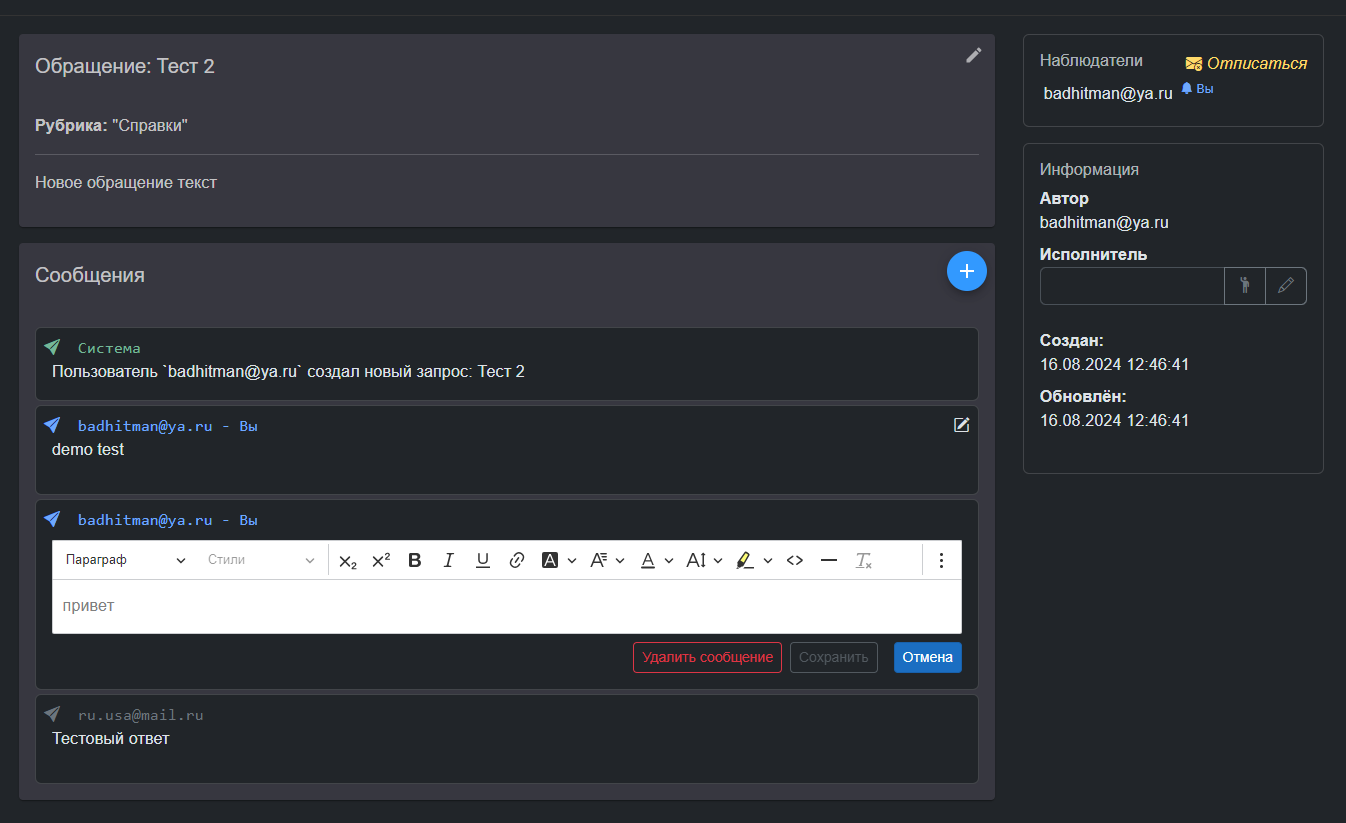
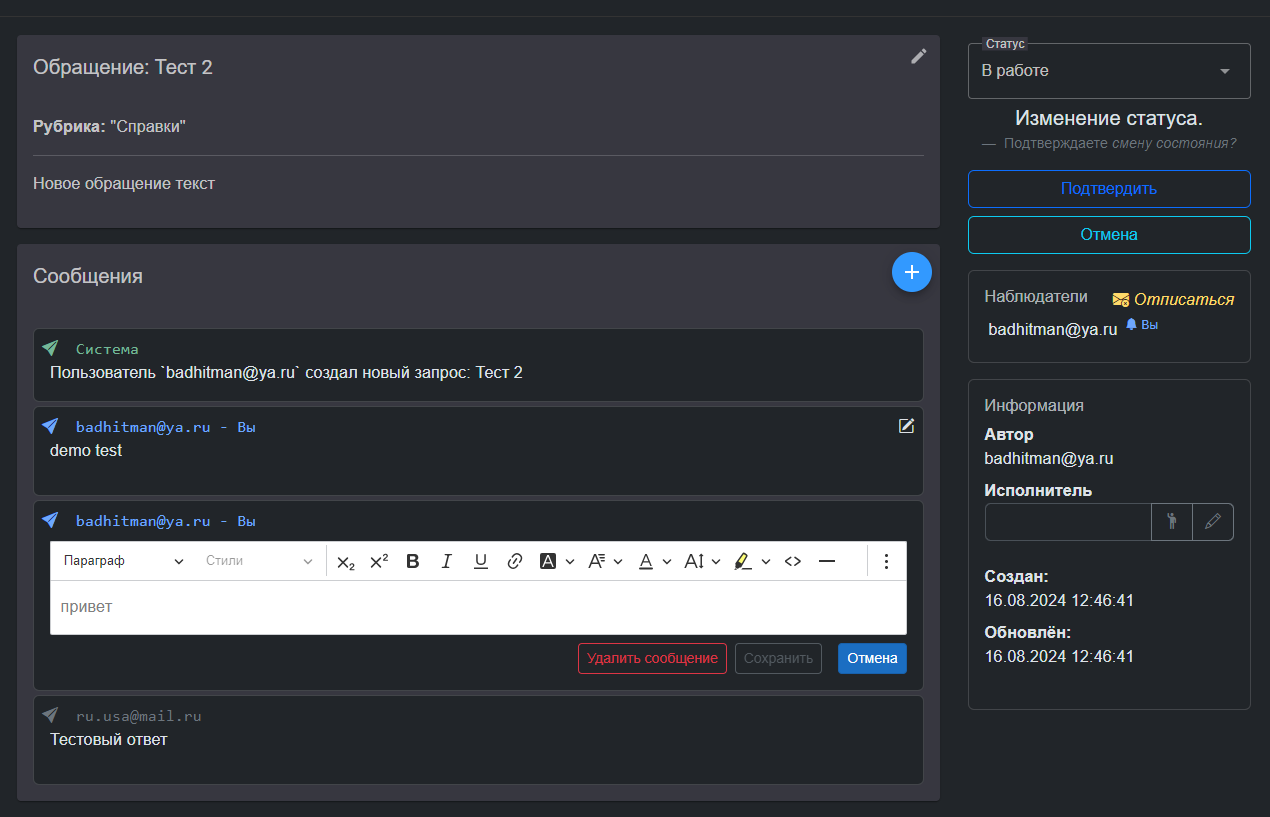
~

diff --git a/BlazorServerLib/Components/Helpdesk/issue/StatusIssueComponent.razor.cs b/BlazorServerLib/Components/Helpdesk/issue/StatusIssueComponent.razor.cs
@@ -1,0 +1,78 @@
+////////////////////////////////////////////////
+// © https://github.com/badhitman - @FakeGov 
+////////////////////////////////////////////////
+
+using SharedLib;
+
+namespace BlazorWebLib.Components.Helpdesk.issue;
+
+/// <summary>
+/// Участники диалога
+/// </summary>
+public partial class StatusIssueComponent : IssueWrapBaseModel
+{
+
+    HelpdeskIssueStepsEnum issueStep { get; set; }
+
+    List<HelpdeskIssueStepsEnum> Steps()
+    {
+        List<HelpdeskIssueStepsEnum> res = [];
+
+        if (CurrentUser.IsAdmin || CurrentUser.UserId == Issue.ExecutorIdentityUserId || CurrentUser.Roles?.Contains(GlobalStaticConstants.Roles.HelpDeskTelegramBotManager) == true)
+            res.AddRange(Enum.GetValues<HelpdeskIssueStepsEnum>());
+        else
+        {
+            switch (Issue.StepIssue)
+            {
+                case HelpdeskIssueStepsEnum.Created or HelpdeskIssueStepsEnum.Reopen or HelpdeskIssueStepsEnum.Pause or HelpdeskIssueStepsEnum.Progress or HelpdeskIssueStepsEnum.Check:
+                    res.AddRange([Issue.StepIssue, HelpdeskIssueStepsEnum.Done, HelpdeskIssueStepsEnum.Canceled]);
+                    break;
+                case HelpdeskIssueStepsEnum.Done:
+                    res.AddRange([HelpdeskIssueStepsEnum.Done, HelpdeskIssueStepsEnum.Reopen]);
+                    break;
+                case HelpdeskIssueStepsEnum.Canceled:
+                    res.AddRange([HelpdeskIssueStepsEnum.Canceled, HelpdeskIssueStepsEnum.Reopen]);
+                    break;
+            }
+        }
+
+        return res;
+    }
+
+    string ChangeAbout()
+    {
+        switch (Issue.StepIssue)
+        {
+            case HelpdeskIssueStepsEnum.Created:
+
+                break;
+            case HelpdeskIssueStepsEnum.Reopen:
+
+                break;
+            case HelpdeskIssueStepsEnum.Pause:
+
+                break;
+            case HelpdeskIssueStepsEnum.Progress:
+
+                break;
+            case HelpdeskIssueStepsEnum.Check:
+
+                break;
+            case HelpdeskIssueStepsEnum.Done:
+
+                break;
+            case HelpdeskIssueStepsEnum.Canceled:
+
+                break;
+        }
+
+        return "";
+    }
+
+    /// <inheritdoc/>
+    protected override void OnInitialized()
+    {
+        issueStep = Issue.StepIssue;
+        base.OnInitialized();
+    }
+}

diff --git a/SharedLib/Enum/HelpdeskIssueStepsEnum.cs b/SharedLib/Enum/HelpdeskIssueStepsEnum.cs
@@ -24,20 +24,32 @@ public enum HelpdeskIssueStepsEnum
     Reopen = 20,
 
     /// <summary>
+    /// Возвращён в работу
+    /// </summary>
+    [Description("Пауза")]
+    Pause = 30,
+
+    /// <summary>
     /// В работе
     /// </summary>
     [Description("В работе")]
-    Progress = 30,
+    Progress = 40,
 
     /// <summary>
     /// На проверке
     /// </summary>
-    [Description(" На проверке")]
-    Check = 40,
+    [Description("На проверке")]
+    Check = 50,
 
     /// <summary>
     /// Готово
     /// </summary>
     [Description("Готово")]
-    Done = 50,
+    Done = 60,
+
+    /// <summary>
+    /// Отменён
+    /// </summary>
+    [Description("Отменён")]
+    Canceled = 70
 }
